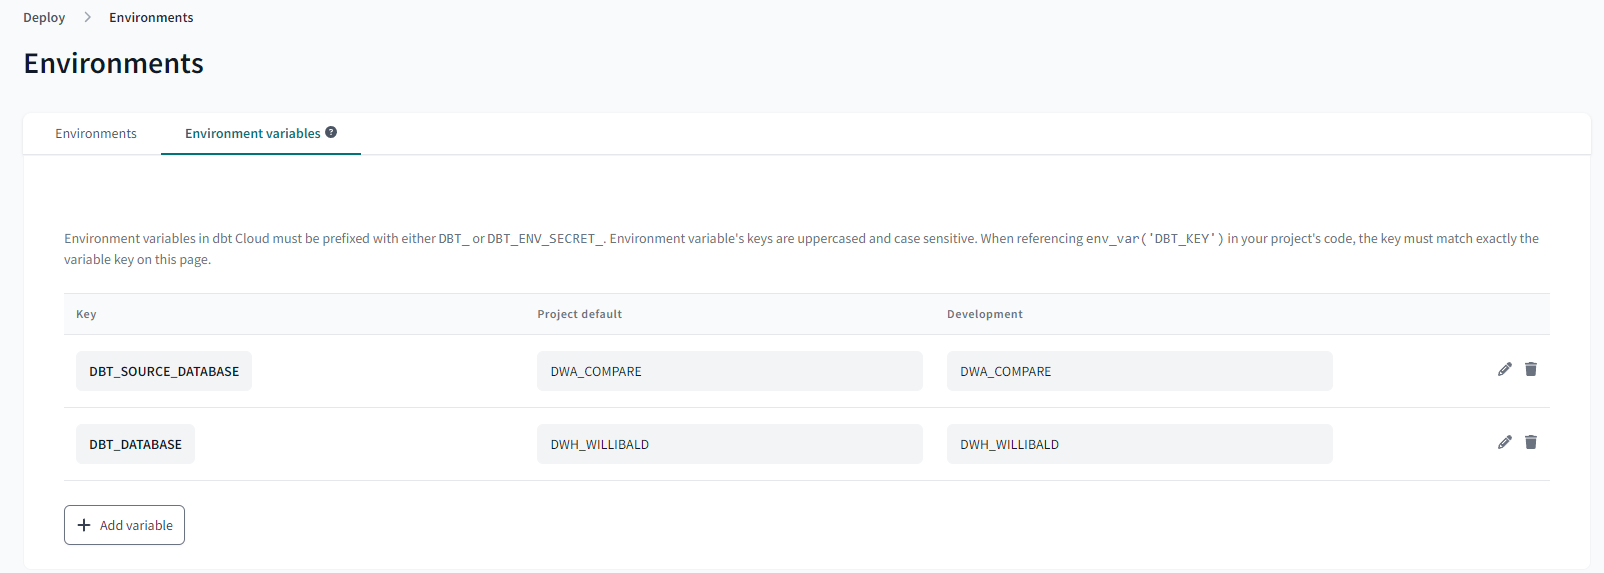
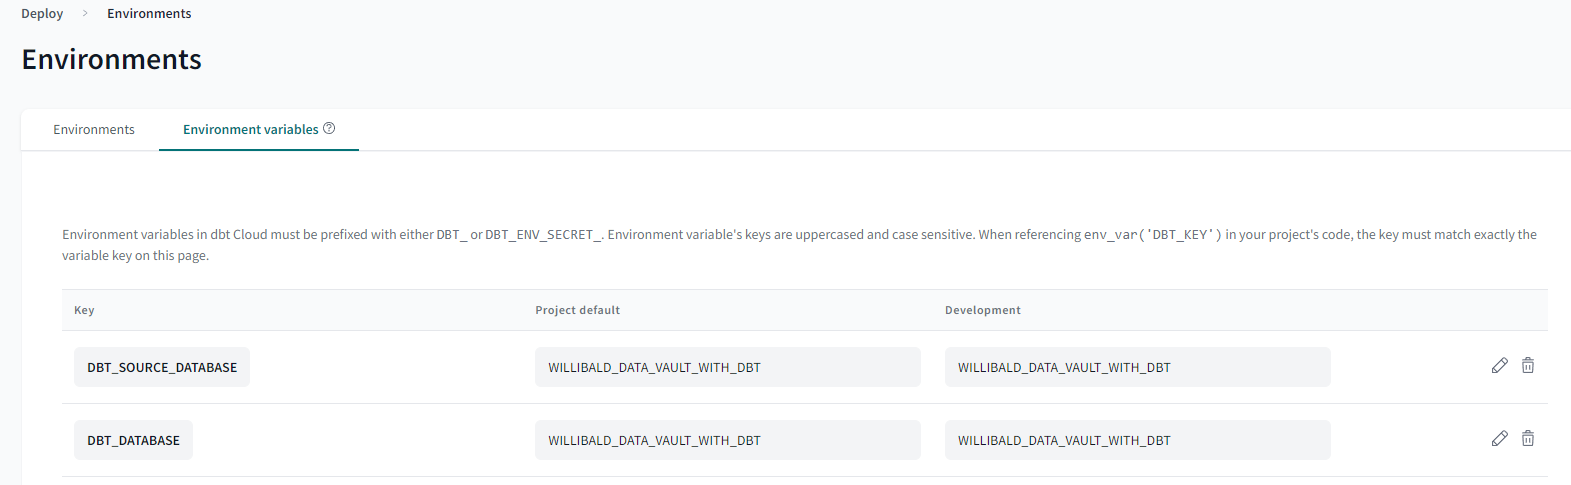
docu update

diff --git a/useful_documents/Willibald_data_vault_with_dbt-01-installation_guidelines_using_dbt_cloud.md b/useful_documents/Willibald_data_vault_with_dbt-01-installation_guidelines_using_dbt_cloud.md
@@ -41,11 +41,11 @@ Keep the following information regarding your snowflake account, because you wil
 
 
 
-## Fork/Clone repository in GitHub
+## Fork repository in GitHub
 
 Log into your github account (or create one).
 Search for our repository: haas-binge/willibald-data-vault-with-dbt.
-Fork or clone the repository. 
+Fork the repository. 
 
 
 ## Set up a dbt cloud account
@@ -83,7 +83,7 @@ Let's hope you see this, otherwise check the troubleshooting pages from dbt
 Choose GitHub
 
 LogIn and authorize dbt 
- you only need to authorize the cloned or forked repository.
+ you only need to authorize the forked repository.
 
 <img src="images/dbtcloud_projectisready.png" alt="dbtcloud_projectisready" width="500">  
 
@@ -99,8 +99,8 @@ choose Environment variables and add the following two Variables:
 |            |                     |          |
 | ---------- | ------------------- | -------- |
 | **Environment Variable**   | **Name**        | **comment** |
-| DBT_SOURCE_DATABASE      | DWA_COMPARE            | the databaseshare we offer as a private    |
-| DBT_DATABASE        | WILLIBALD_DATA_VAULT_WITH_DBT               | or any other DB name you chose for your DWH   |
+| DBT_SOURCE_DATABASE      | WILLIBALD_DATA_VAULT_WITH_DBT            | or the other DB name you chose for your DWH    |
+| DBT_DATABASE        | WILLIBALD_DATA_VAULT_WITH_DBT               | or the other DB name you chose for your DWH   |
 
 
 
